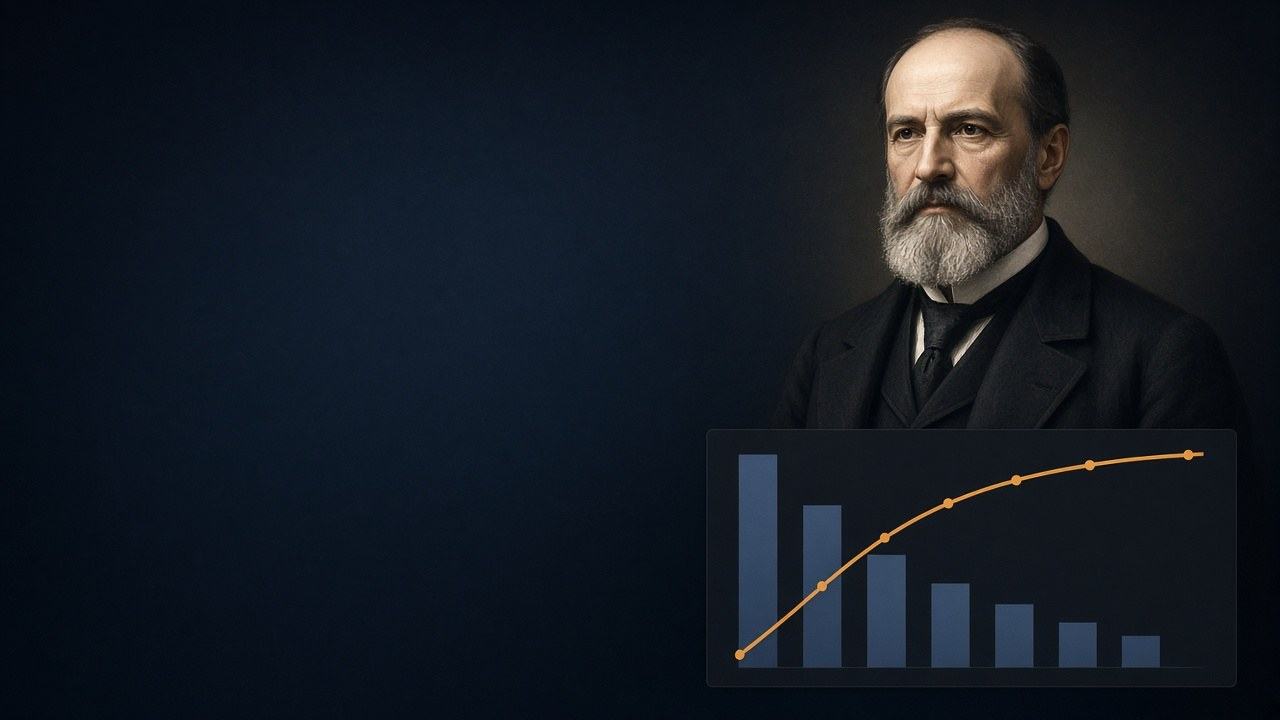
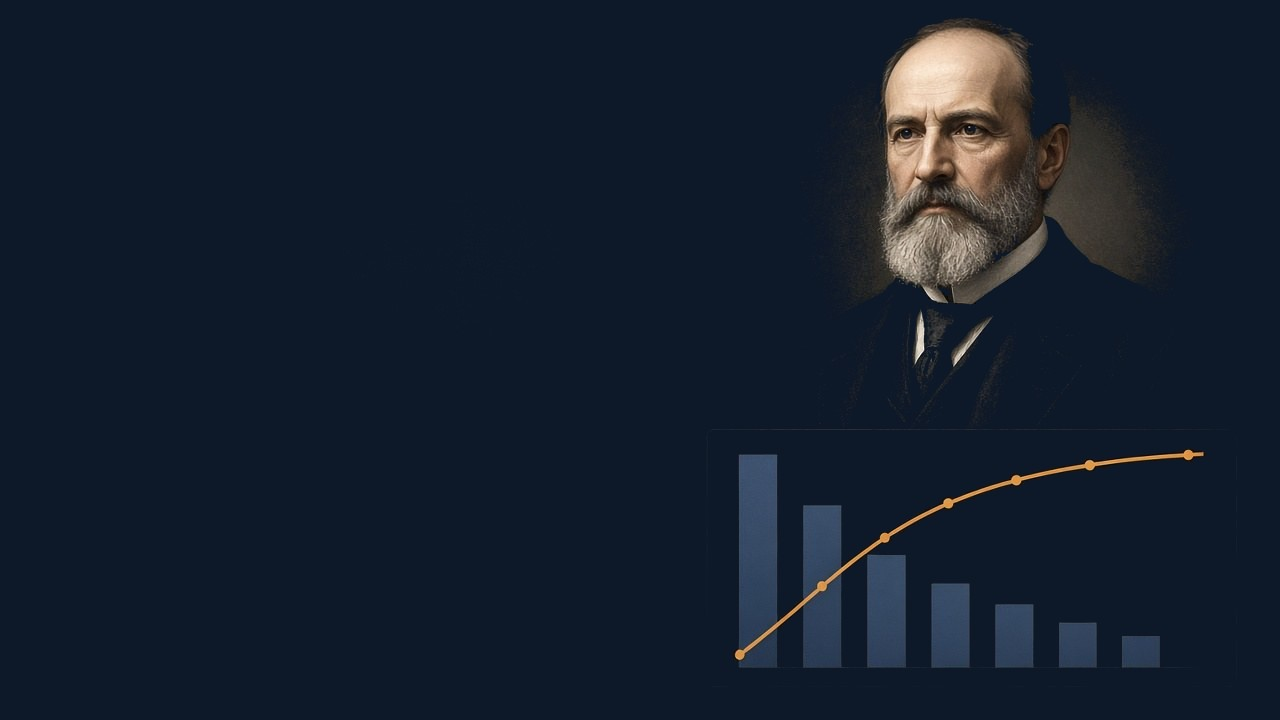
fix(tools): keep the hero background even and label the Pareto portrait

diff --git a/Statistico-Website/index-Addins.html b/Statistico-Website/index-Addins.html
@@ -59,10 +59,7 @@
       overflow: hidden;
       padding: 34px 0 14px;
       border-bottom: 1px solid rgba(120, 200, 255, 0.2);
-      background:
-        radial-gradient(1000px 500px at 18% -15%, rgba(255, 165, 120, 0.22), transparent 62%),
-        radial-gradient(900px 480px at 85% 10%, rgba(120, 200, 255, 0.2), transparent 62%),
-        linear-gradient(165deg, #0f1d31 0%, #0d1829 50%, #0a1321 100%);
+      background: #0d1829;
     }
 
     .hero-scene {
@@ -70,12 +67,31 @@
       inset: 0;
       pointer-events: none;
       z-index: 0;
-      background-image:
-        radial-gradient(ellipse at 40% 48%, rgba(10, 19, 33, 0.84) 0%, rgba(10, 19, 33, 0.4) 34%, rgba(10, 19, 33, 0.08) 62%),
-        url('assets/hero-pareto.jpg');
-      background-repeat: no-repeat;
-      background-position: center center, right center;
-      background-size: 100% 100%, auto 100%;
+      background: url('assets/hero-pareto.jpg') right center / auto 100% no-repeat;
+    }
+
+    .hero-pareto-label {
+      position: absolute;
+      z-index: 1;
+      right: 292px;
+      bottom: 16px;
+      width: 220px;
+      margin: 0;
+      padding: 8px 11px;
+      border: 1px solid rgba(120, 200, 255, 0.42);
+      border-radius: 10px;
+      background: rgba(13, 24, 41, 0.72);
+      color: rgba(255, 255, 255, 0.92);
+      font-size: 0.74rem;
+      line-height: 1.35;
+      text-align: left;
+    }
+
+    .hero-pareto-label strong {
+      display: block;
+      margin-bottom: 2px;
+      color: #ffffff;
+      font-size: 0.8rem;
     }
 
     .hero.grid::after{
@@ -1046,9 +1062,13 @@
     @media (max-width: 768px){
       .app-grid{ grid-template-columns: 1fr; }
       .hero{ padding-top: 48px; }
-      .hero-scene {
-        background-position: center center, 80% center;
-        opacity: 0.72;
+      .hero-pareto-label {
+        position: relative;
+        right: auto;
+        bottom: auto;
+        width: auto;
+        max-width: 420px;
+        margin: 12px auto 0;
       }
       .preview-host{
         min-height: 420px;
@@ -1078,6 +1098,7 @@
         <a class="btn-primary" href="#specialized-tools">Explore specialized tools ↓</a>
       </div>
     </div>
+    <p class="hero-pareto-label"><strong>Vilfredo Pareto</strong> Originator of the Pareto curve, the 20/80 principle</p>
   </section>
 
   <section id="specialized-tools">
